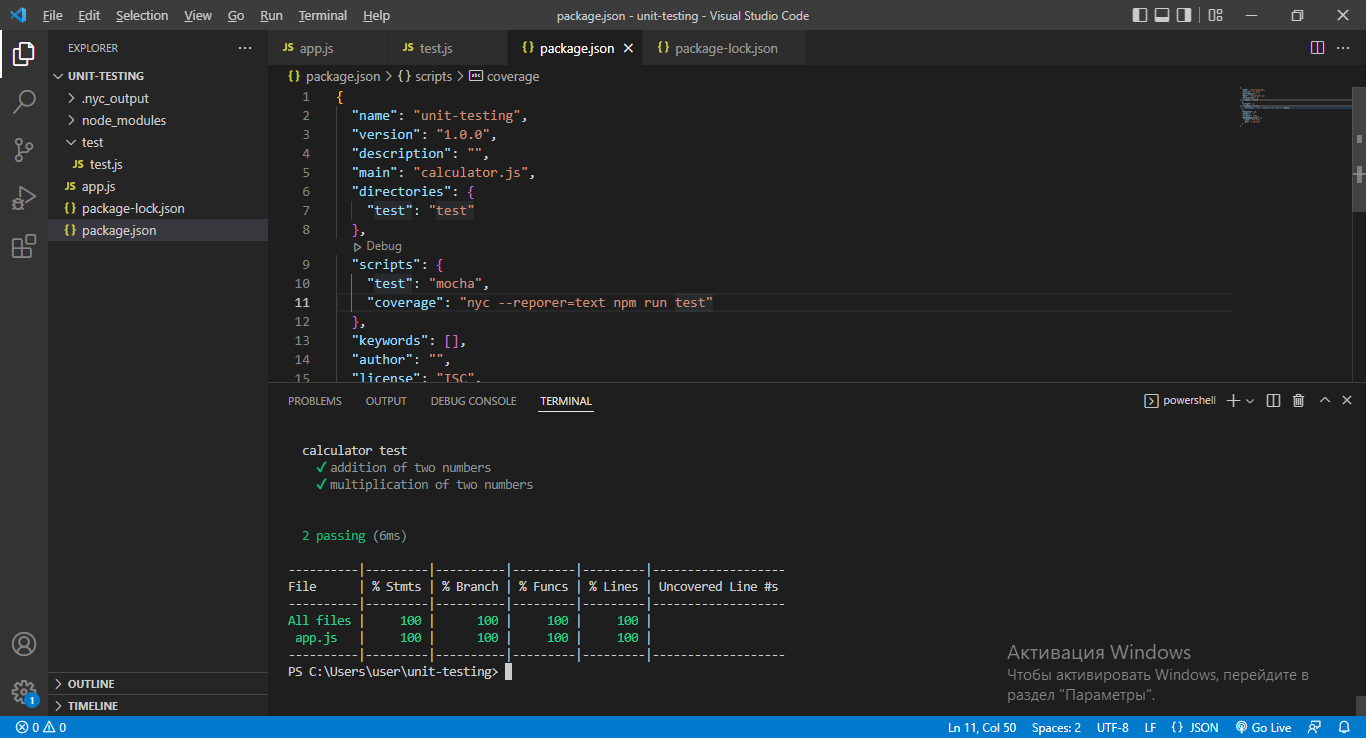
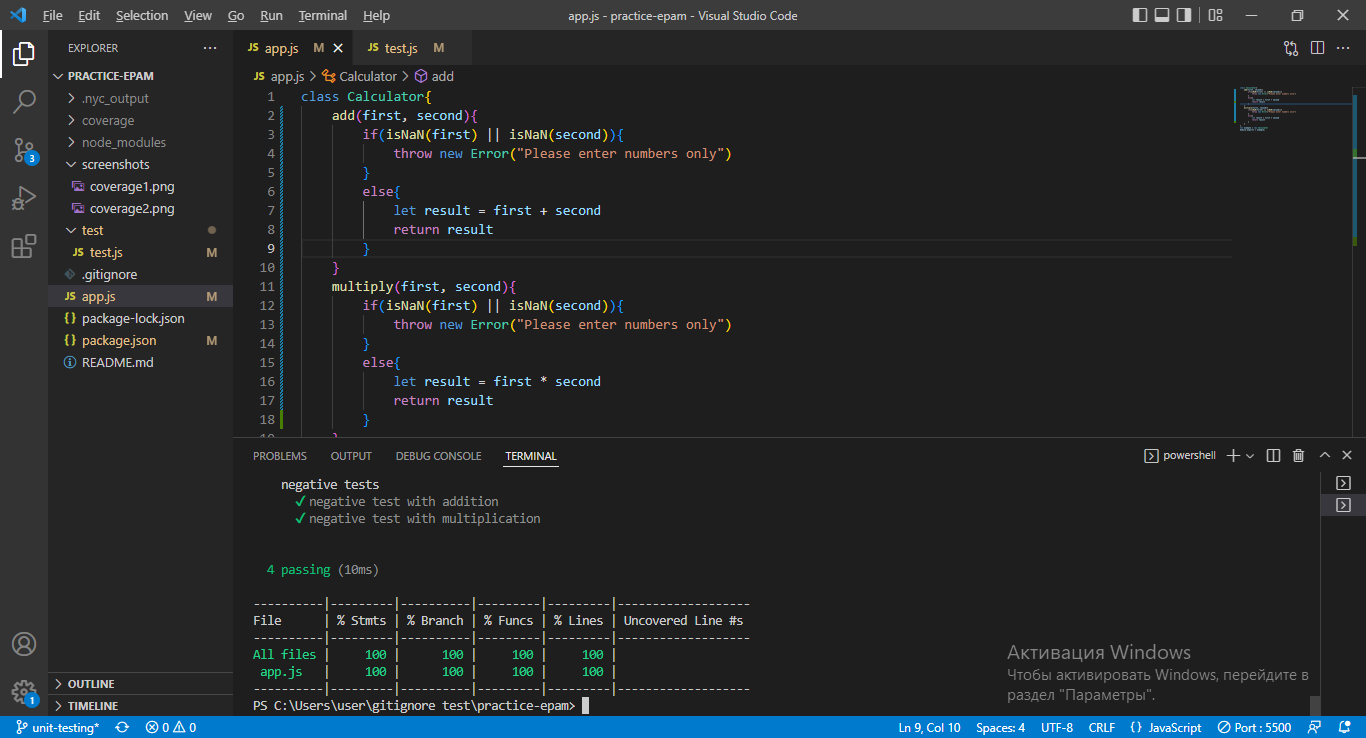
added data type validation

diff --git a/test/test.js b/test/test.js
@@ -1,13 +1,32 @@
 const calc = require('../app.js')
 const assert = require('assert')
+const {expect} = require('chai')
 
 describe('calculator test', function(){
-    it('addition of two numbers', function(){
-        let total = calc.add(4,5)
-        assert.equal(total, 9)
+    describe('positive test', function(){
+        it('addition of two numbers', function(){
+            let total = calc.add(4,5)
+            assert.equal(total, 9)
+        })
+        it('multiplication of two numbers', function(){
+            let total = calc.multiply(4,5)
+            assert.equal(total, 20)
+        })
     })
-    it('multiplication of two numbers', function(){
-        let total = calc.multiply(4,5)
-        assert.equal(total, 20)
+    describe('negative tests', function(){
+        it('negative test with addition', function(){
+            //didnt work with assert
+            // assert.throws(calc.add('a', false), 'Please enter numbers only')
+            expect(() => {
+                calc.add('a', false)
+               }).to.throw(Error, 'Please enter numbers only')
+        })
+        it('negative test with multiplication', function(){
+            //didnt work with assert
+            //assert.throws(calc.multiply(true, 'hello'), 'Please enter numbers only')
+            expect(() => {
+                calc.multiply(true, 'hello')
+               }).to.throw(Error, 'Please enter numbers only')
+        })
     })
 })

diff --git a/app.js b/app.js
@@ -1,11 +1,21 @@
 class Calculator{
-    add(first, second) {
-        let result = first + second
-        return result
+    add(first, second){
+        if(isNaN(first) || isNaN(second)){
+            throw new Error("Please enter numbers only")
+        }
+        else{
+            let result = first + second
+            return result
+        }
     }
-    multiply(first, second) {
-        let result = first * second
-        return result
+    multiply(first, second){
+        if(isNaN(first) || isNaN(second)){
+            throw new Error("Please enter numbers only")
+        }
+        else{
+            let result = first * second
+            return result
+        }
     }
 }
 let example = new Calculator
